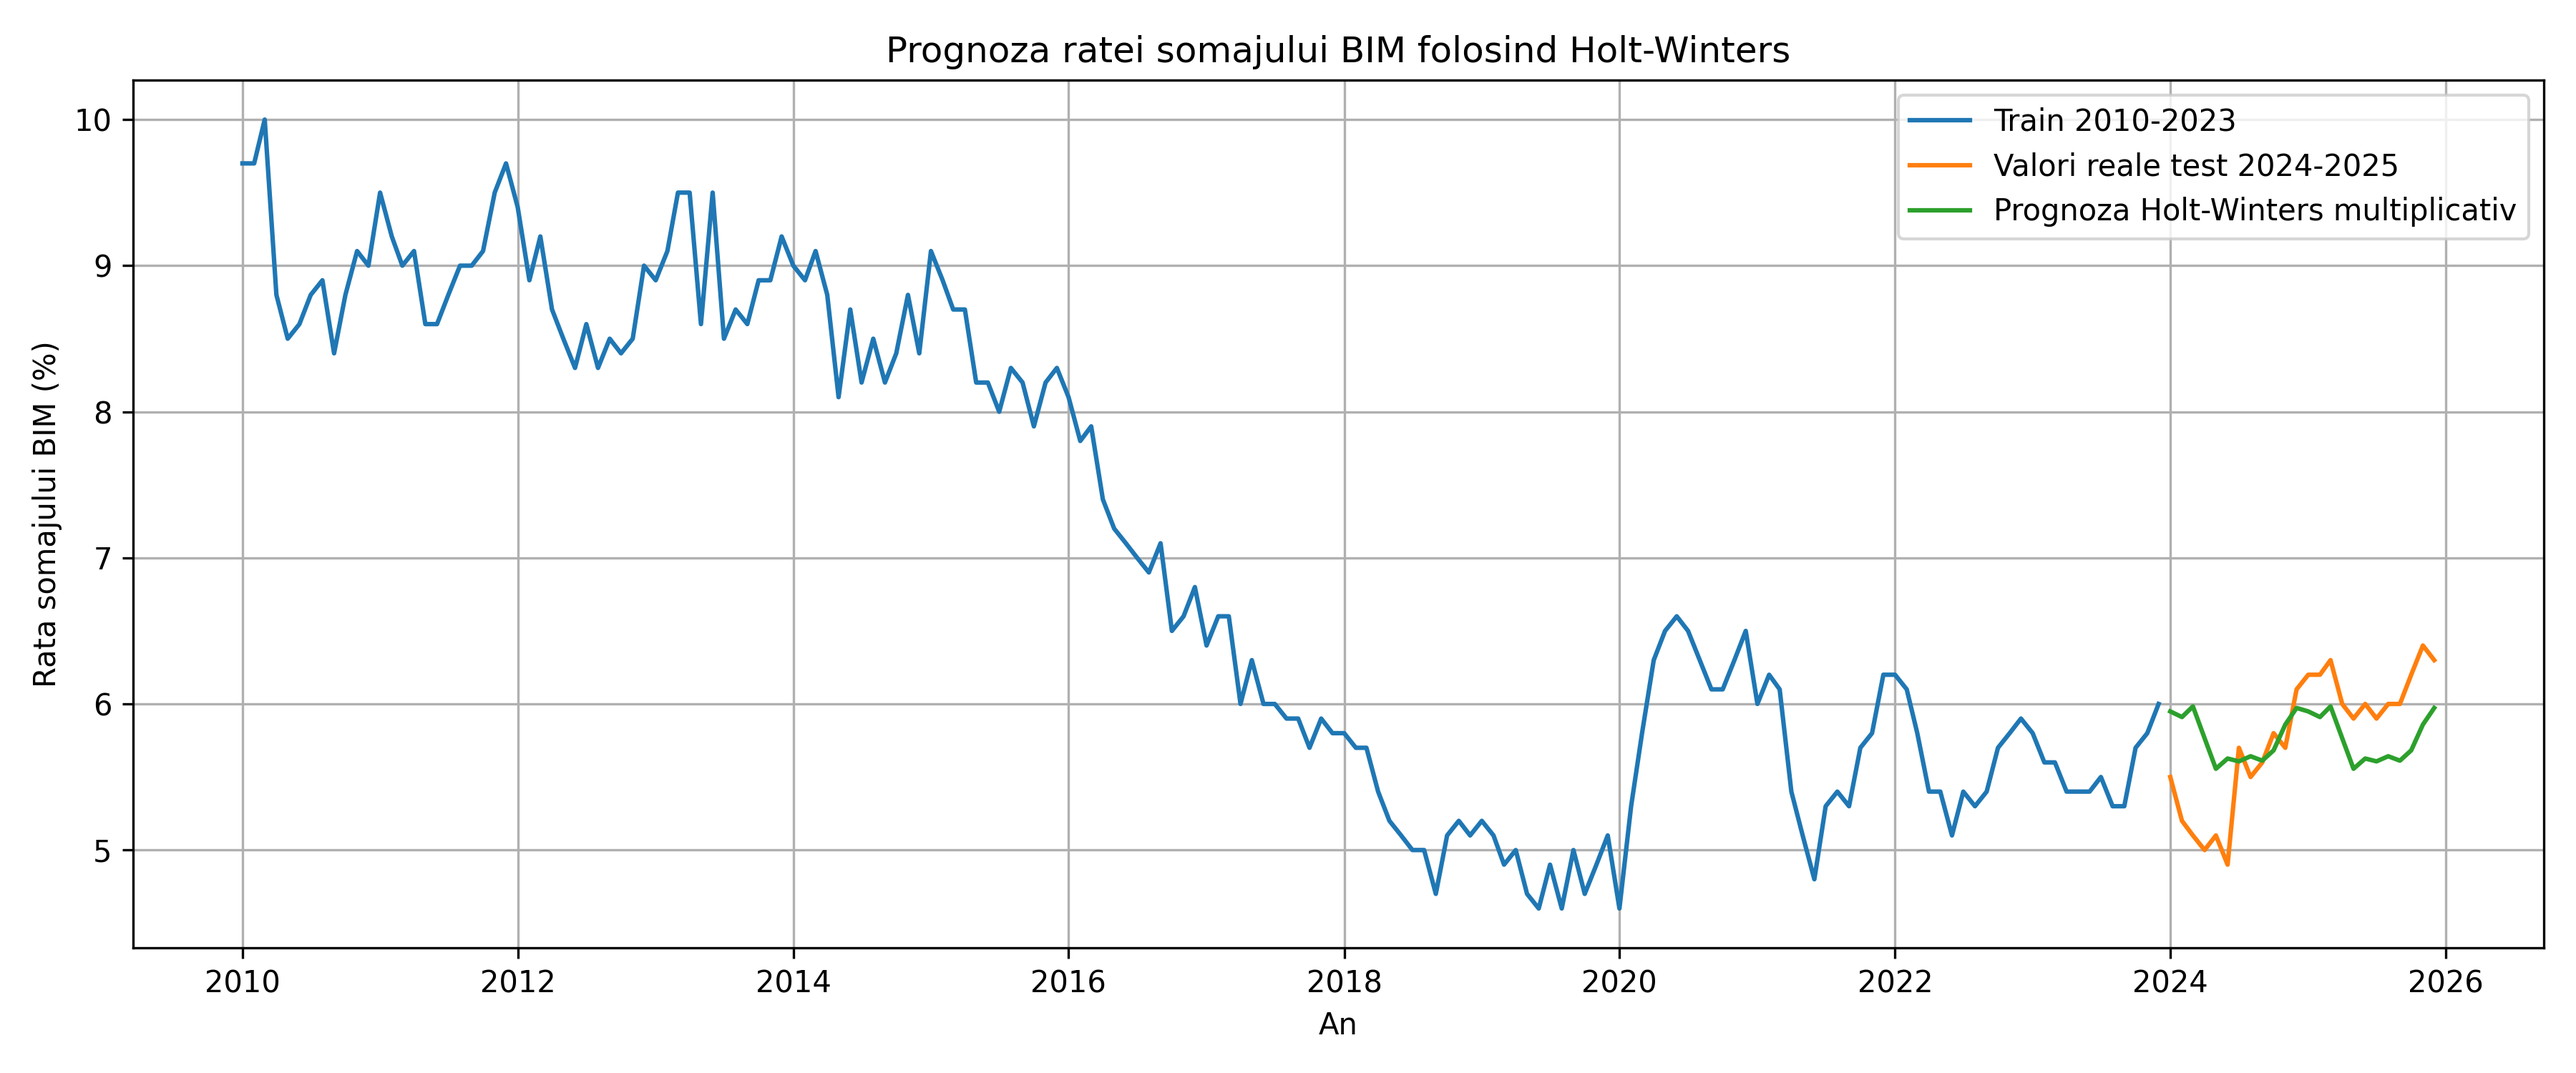
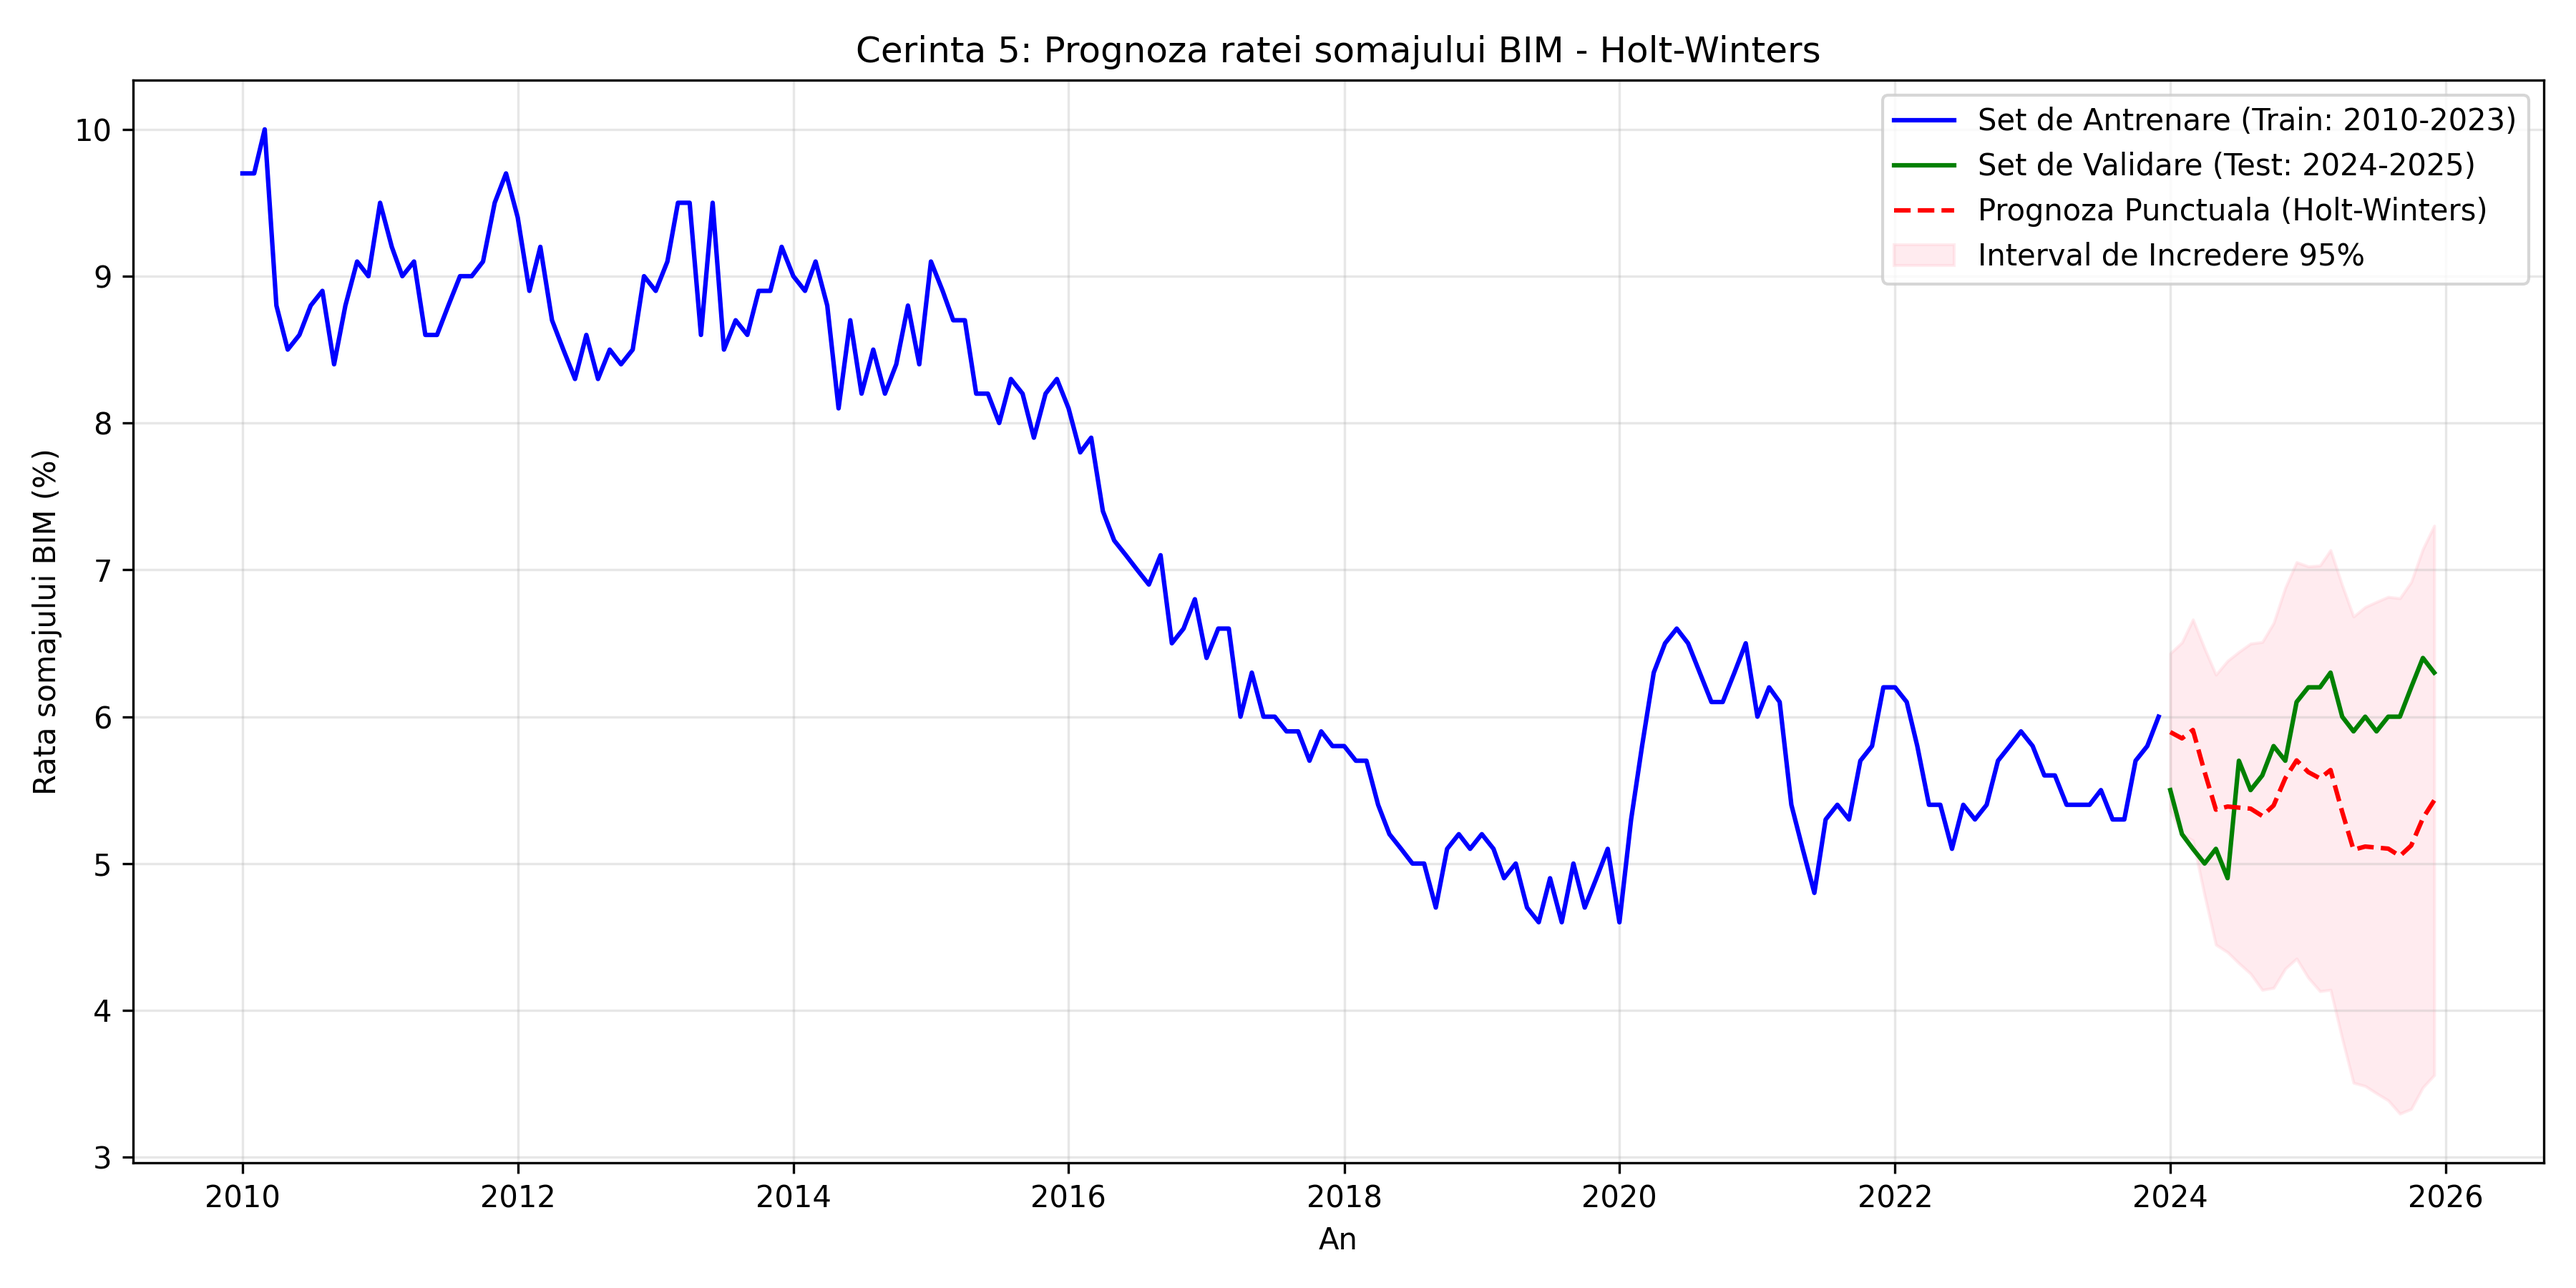
Refactor Holt-Winters: adaugare intervale de incredere cu ETSModel pentru Cerinta 5

diff --git a/alex_holt_winters/main.py b/alex_holt_winters/main.py
@@ -1,9 +1,12 @@
 import pandas as pd
 import numpy as np
 import matplotlib.pyplot as plt
+plt.switch_backend('Agg')
 
 from statsmodels.tsa.holtwinters import SimpleExpSmoothing, Holt, ExponentialSmoothing
+from statsmodels.tsa.exponential_smoothing.ets import ETSModel
 from sklearn.metrics import mean_absolute_error, mean_squared_error
+
 
 
 def calcul_mape(y_true, y_pred):
@@ -179,18 +182,25 @@ print("\nPrognoze:")
 print(prognoza_df)
 
 
-plt.figure(figsize=(12, 5))
-plt.plot(train, label="Train 2010-2023")
-plt.plot(test, label="Valori reale test 2024-2025")
-plt.plot(forecast_hw_mul, label="Prognoza Holt-Winters multiplicativ")
-plt.title("Prognoza ratei somajului BIM folosind Holt-Winters")
+# Cerinta 5: Interval de incredere folosind ETSModel (pentru Holt-Winters Multiplicativ)
+model_ets = ETSModel(train, error="add", trend="add", seasonal="add", seasonal_periods=12)
+fit_ets = model_ets.fit(disp=False)
+pred = fit_ets.get_prediction(start=test.index[0], end=test.index[-1])
+pred_df = pred.summary_frame(alpha=0.05) # Interval de incredere de 95%
+
+plt.figure(figsize=(12, 6))
+plt.plot(train, label="Set de Antrenare (Train: 2010-2023)", color="blue")
+plt.plot(test, label="Set de Validare (Test: 2024-2025)", color="green")
+plt.plot(pred_df['mean'], label="Prognoza Punctuala (Holt-Winters)", color="red", linestyle="--")
+plt.fill_between(pred_df.index, pred_df['pi_lower'], pred_df['pi_upper'], color='pink', alpha=0.3, label="Interval de Incredere 95%")
+plt.title("Cerinta 5: Prognoza ratei somajului BIM - Holt-Winters")
 plt.xlabel("An")
 plt.ylabel("Rata somajului BIM (%)")
 plt.legend()
-plt.grid(True)
+plt.grid(True, alpha=0.3)
 plt.tight_layout()
 plt.savefig("grafic_holt_winters_prognoza.png", dpi=300)
-plt.show()
+
 
 
 plt.figure(figsize=(12, 5))
